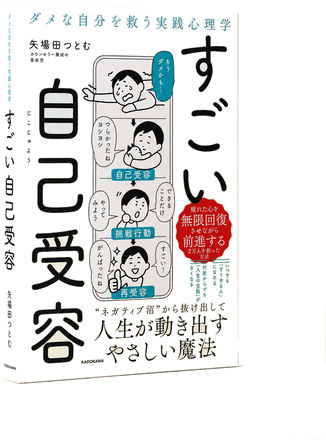
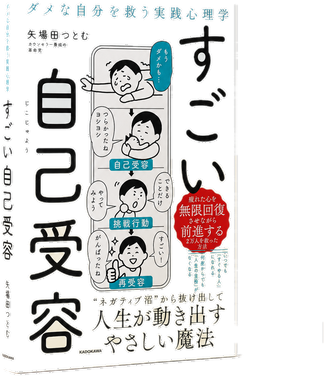
矢場田診断LP: 著書画像を透明にし中央揃え、スマホの見出しの改行を直す

Changed region(s): [[0.0, 0.0, 0.7407, 1.0], [0.7099, 0.2633, 0.7407, 0.3218], [0.7099, 0.1755, 0.7407, 0.2048]]

diff --git a/yabata-diagnostic-ad/index.html b/yabata-diagnostic-ad/index.html
@@ -84,15 +84,18 @@ header.site .btn{width:auto;white-space:nowrap;flex:none}
 /* 見本 */
 .sample{display:grid;grid-template-columns:1fr 1fr;gap:34px;align-items:center}
 /* 講師 */
-.guide{display:grid;grid-template-columns:360px 1fr;gap:34px;align-items:start}
-.gleft{display:grid;gap:16px}
+/* gw-var */
+h1,h2,h3,.eyebrow+h2,.lead,.type b,.vl,.rec figcaption b{text-wrap:balance;word-break:auto-phrase}
+.guide p,.rec p,.q p{text-wrap:pretty;word-break:auto-phrase}
+.guide{--gw:300px;display:grid;grid-template-columns:var(--gw) 1fr;gap:34px;align-items:start}
+.gleft{display:grid;gap:16px;justify-items:center}
 .bookrev{text-align:center}
-.bookrev img{width:100%;max-width:280px;height:auto;border-radius:6px;box-shadow:0 14px 34px rgba(60,30,50,.25);display:block;margin:0 auto}
+.bookrev img{width:var(--gw);max-width:100%;height:auto;display:block;margin:0 auto;filter:drop-shadow(0 12px 14px rgba(60,30,50,.28))}
 .bookrev .bcap{margin:14px 0 0;font-size:16px;line-height:1.6}
 .bookrev .bcap b{display:block;font-family:var(--mincho);font-size:19px}
 .bookrev .bcap span{color:var(--teal-deep);font-weight:700;font-size:16px}
 
-.guide .gleft>img{width:100%;max-width:300px;justify-self:start;height:auto;border-radius:16px;display:block;box-shadow:var(--shadow)}
+.guide .gleft>img{width:var(--gw);max-width:100%;height:auto;border-radius:16px;display:block;margin:0 auto;box-shadow:var(--shadow)}
 .facts{display:grid;grid-template-columns:repeat(2,1fr);gap:10px;margin:14px 0}
 .facts div{background:var(--teal-tint);border-radius:12px;padding:10px 12px;font-size:14px;line-height:1.6}
 .facts b{display:block;color:var(--teal-deep);font-family:var(--mincho);font-size:18px}
@@ -145,7 +148,10 @@ body.lock{overflow:hidden}
   section{padding:50px 0}
   .hero .grid{grid-template-columns:1fr;grid-template-areas:"text" "mock" "cta"}
   .sample,.guide{grid-template-columns:1fr}
-  .guide .gleft>img{max-width:220px;margin:0 auto}
+  .guide{--gw:min(240px,72vw)}
+  .facts{grid-template-columns:1fr}
+  .btn{padding-left:18px;padding-right:18px}
+  .gleft{justify-self:center}
   .trust{grid-template-columns:repeat(2,1fr)}
   .btn{width:100%}
   .letter-mock{transform:none;max-width:380px;margin:0 auto}

diff --git a/yabata-diagnostic-lp/index.html b/yabata-diagnostic-lp/index.html
@@ -244,6 +244,11 @@ html.embed .shell{padding-top:10px}
 .qcard span{font-size:13px;color:var(--muted)}
 .lpblock .profile{display:block}
 .vnote{font-size:12px;color:var(--muted);margin-top:10px;font-family:var(--gothic)}
+/* phrasefix: 見出しの不自然な改行を減らす */
+.letter .rh,.letter .result-name,.letter .type-lead,.qtext,.arch .to,.lpcatch2{text-wrap:balance;word-break:auto-phrase}
+.letter p,.letter li,.qcard p,.vcard .vl{text-wrap:pretty;word-break:auto-phrase}
+@media (max-width:480px){.btn{padding-left:16px;padding-right:16px}}
+.btn{text-wrap:balance;word-break:auto-phrase}
 /* ---- 50代でも読みやすい文字の大きさ・PCでは広く ---- */
 body{font-size:18px}
 .shell{max-width:780px}
